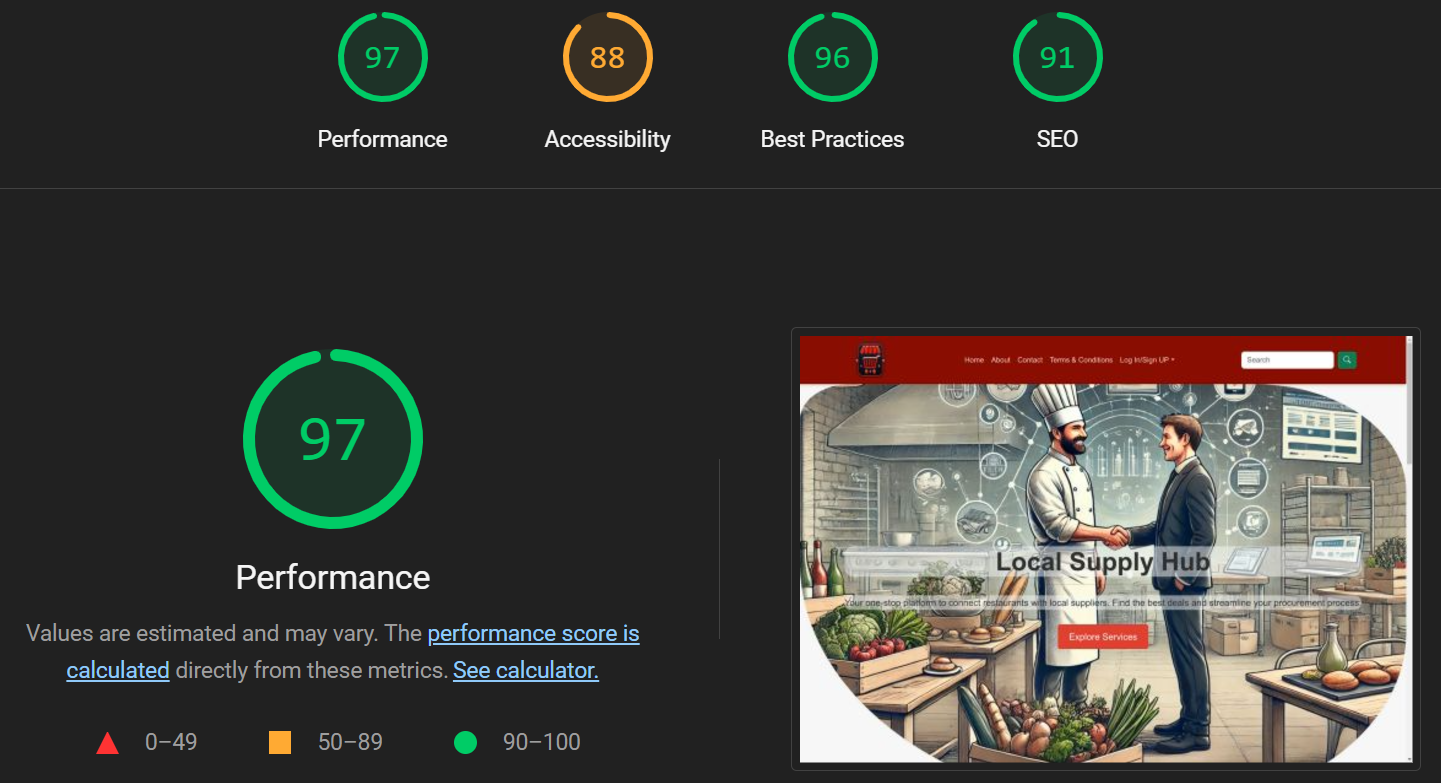
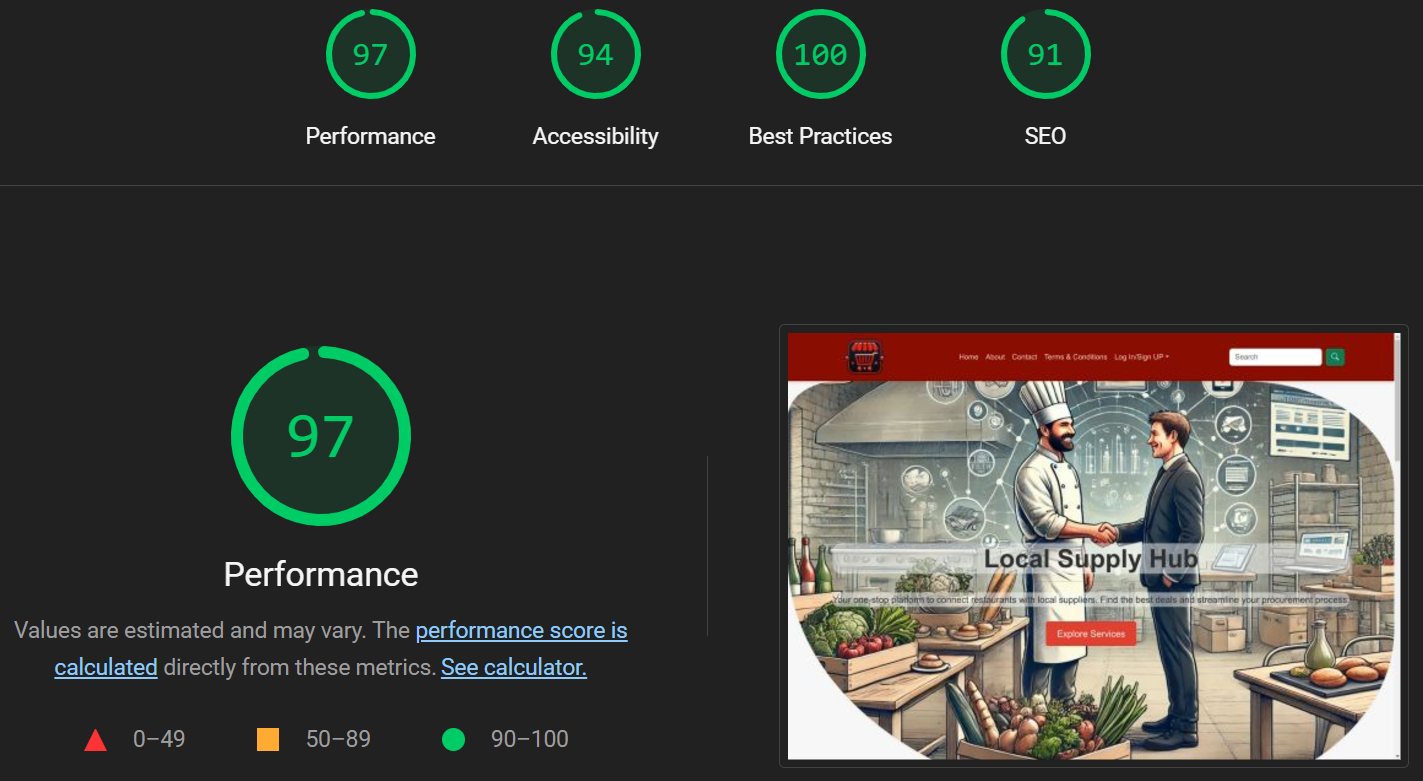
DOC: Wave included, lighthouse adjusted and navbar.html fixed

diff --git a/red-bazaar/templates/widgets/navbar.html b/red-bazaar/templates/widgets/navbar.html
@@ -20,7 +20,7 @@
                 <div class="d-flex align-items-center justify-content-center gap-3 order-md-2 order-1 ms-auto ms-md-0 me-md-3">
                     {% if user.role == 'BUY' %}
                     <!-- Cart Button -->
-                    <a href="{% url 'products:view-cart' %}" class="position-relative text-dark">
+                    <a href="{% url 'products:view-cart' %}" class="position-relative text-dark" aria-label="View Cart">
                         <i class="bi bi-cart fs-3"></i>
                         {% if cart_items_count > 0 %}
                         <span class="position-absolute top-0 start-100 translate-middle badge rounded-pill bg-danger">
@@ -30,13 +30,13 @@
                     </a>
                     {% else %}
                     <!-- Add Item Button -->
-                    <a href="{% url 'products:create' %}" class="position-relative text-dark">
+                    <a href="{% url 'products:create' %}" class="position-relative text-dark"aria-label="Add item">
                         <i class="bi bi-plus-square fs-3"></i>
                     </a>
                     {% endif %}
 
                     <!-- Messages Button -->
-                    <a href="{% url 'direct_messages:chat' %}" class="position-relative text-dark">
+                    <a href="{% url 'direct_messages:chat' %}" class="position-relative text-dark" aria-label="Open chat">
                         <i class="bi bi-chat fs-3"></i>
                         {% if new_messages_count > 0 %}
                         <span class="position-absolute top-0 start-100 translate-middle badge rounded-pill bg-danger">
@@ -100,7 +100,7 @@
                 <div class="d-flex d-lg-none justify-content-center mt-3">
                     <form class="form-inline d-flex" action="{% url 'products:search' %}" method="GET">
                         <input class="form-control me-2" type="search" placeholder="Search" aria-label="Search" name="q">
-                        <button class="btn btn-success" type="submit"><i class="bi bi-search"></i></button>
+                        <button class="btn btn-success" type="submit" aria-label="Search button"><i class="bi bi-search"></i></button>
                     </form>
                 </div>
             </div>
@@ -108,7 +108,7 @@
             <!-- Search Bar for Desktop -->
             <div id="desktop-search" class="d-none d-lg-flex justify-content-end order-md-3 ms-auto">
                 <form class="form-inline d-flex flex-row-reverse" action="{% url 'products:search' %}" method="GET">
-                    <button class="btn btn-success" type="submit"><i class="bi bi-search"></i></button>
+                    <button class="btn btn-success" type="submit"  aria-label="Search button"><i class="bi bi-search"></i></button>
                     <input class="form-control me-2" type="search" placeholder="Search" aria-label="Search" name="q">
                 </form>
             </div>

diff --git a/README.md b/README.md
@@ -474,7 +474,20 @@ Accessibility is a core focus for **RedBazaar**, following the Web Content Acces
 A WAVE audit was conducted, confirming compliance with accessibility standards. Minor adjustments, such as improving button contrast, are planned for future updates.
 
 **Wave Validation Screenshot:**
-![Wave Validation Result](red-bazaar/static/imgs/readme-pics/wave-validation.jpg)
+![Wave Validation Result](red-bazaar/static/imgs/readme-pics/wave-val-results.png)
+
+#### Contrast Errors
+
+During the validation process, **five contrast errors** were flagged. These errors were identified in the **footer links**, where the background is black, and the text is red. Although Wave reported these as potential contrast issues, we conducted additional testing with users and concluded the following:
+
+1. **Readability**: The links are clearly visible to all users we tested, and no one reported difficulty in reading or interacting with them.
+2. **Brand Identity**: The colour scheme aligns with the branding of Red Bazaar and reflects the overall theme and identity of the platform.
+3. **Decision**: While we acknowledge the errors flagged by Wave, we have opted to **retain the current colour scheme**. Changing these colours would compromise the brand consistency established for the site.
+
+**Wave Validation Contrast Error:**
+![Wave Validation Result](red-bazaar/static/imgs/readme-pics/wave-val-contrast.png)
+
+This decision was made after careful consideration and feedback from multiple sources. We will continue to monitor user feedback and revisit this choice if necessary in future updates.
 
 ### Lighthouse Validation
 **RedBazaar** achieved high Lighthouse scores in performance, accessibility, and SEO. Some notable efforts include:
